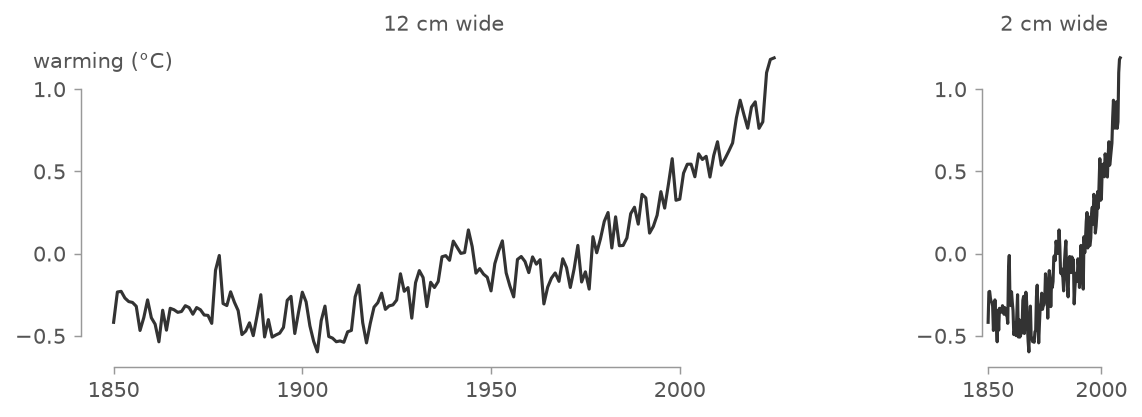
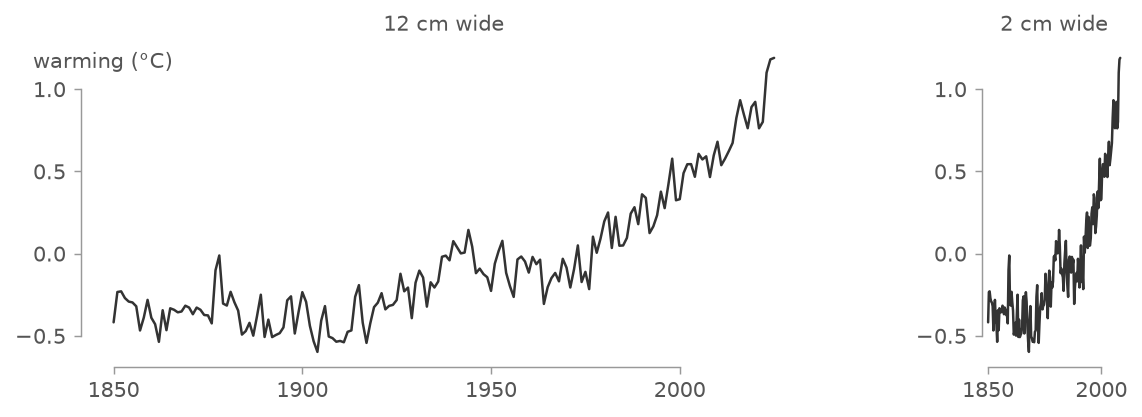
docs(gallery): draw under the vzs style so it owns the geometry
Apply the vanzelfsprekend style once in main() and retire the hand-set
linewidth=1.2 and fontsize=10 that restated it across the figures, so
the style is the single authority for line width and mark size. The
line-bearing figures pick up its 1.2 weight and round caps; seaborn
keeps its deliberate 2.0 and the scatter sizes stay, since matplotlib
has no rcParam for scatter s.

Claude-Session: https://claude.ai/code/session_011Cqf5d5iudAxMQDyUAgWy4

diff --git a/examples/gallery.py b/examples/gallery.py
@@ -70,7 +70,7 @@ def anscombe() -> None:
         ax.yaxis.set_major_locator(vzs.QuartileLocator(y))
         ax.xaxis.set_major_formatter("{x:.0f}")
         ax.yaxis.set_major_formatter("{x:.1f}")
-        ax.set_title(numeral, fontsize=10, color=vzs.palettes.TEXT_INK)
+        ax.set_title(numeral, color=vzs.palettes.TEXT_INK)
     save(fig, "anscombe")
 
 
@@ -92,7 +92,7 @@ def grand_tours() -> None:
         speeds = np.full(years.size, np.nan)
         speeds[table["year"].astype(int) - first] = table[column]
         speeds_of[ax] = speeds
-        ax.plot(dates, speeds, color=color, linewidth=1.2, label=label)
+        ax.plot(dates, speeds, color=color, label=label)
     # Plot before apply: the axis becomes a date axis when date data
     # arrives, and apply detects date-ness at call time.
     vzs.small_multiples(
@@ -145,8 +145,8 @@ def kepler() -> None:
     Period against semi-major axis for the eight planets; in AU and years
     the law is T = a**1.5, so the planets are collinear on log-log axes.
     Joining them draws the line, Earth alone is coloured, and `label` names
-    it in that colour. Drawn inside the `vanzelfsprekend` style, so the line
-    width and mark size come from there, not from this figure.
+    it in that colour. The gallery renders under the `vanzelfsprekend` style,
+    so the line width and mark size come from there, not from this figure.
     """
     # planets.csv carries a name column, so read it with per-column dtypes
     # rather than the all-numeric `load`; the comment strip is load's.
@@ -160,27 +160,26 @@ def kepler() -> None:
         table["orbital_period_year"],
         table["name"] == "Earth",
     )
-    with plt.style.context("vanzelfsprekend"):
-        fig, ax = plt.subplots(figsize=(5, 3.5))
-        ax.set_xscale("log")
-        ax.set_yscale("log")
-        # The planets in order of distance, joined into the law they obey.
-        ax.plot(axis, period, marker="o", color=vzs.palettes.DATA_INK)
-        # Earth alone in a Tol blue, a larger mark, named in its colour.
-        ax.plot(
-            axis[earth],
-            period[earth],
-            marker="o",
-            markersize=7,
-            linestyle="none",
-            color="tol:bright.blue",
-            label="Earth",
-        )
-        vzs.apply(ax, frame="loose")
-        vzs.xlabel(ax, "semi-major axis (AU)")
-        vzs.ylabel(ax, "orbital period (year)")
-        vzs.label(ax, "Earth")
-        save(fig, "kepler")
+    fig, ax = plt.subplots(figsize=(5, 3.5))
+    ax.set_xscale("log")
+    ax.set_yscale("log")
+    # The planets in order of distance, joined into the law they obey.
+    ax.plot(axis, period, marker="o", color=vzs.palettes.DATA_INK)
+    # Earth alone in a Tol blue, a larger mark, named in its colour.
+    ax.plot(
+        axis[earth],
+        period[earth],
+        marker="o",
+        markersize=7,
+        linestyle="none",
+        color="tol:bright.blue",
+        label="Earth",
+    )
+    vzs.apply(ax, frame="loose")
+    vzs.xlabel(ax, "semi-major axis (AU)")
+    vzs.ylabel(ax, "orbital period (year)")
+    vzs.label(ax, "Earth")
+    save(fig, "kepler")
 
 
 def waiting_times() -> None:
@@ -215,7 +214,7 @@ def frame_modes() -> None:
     for ax, mode in zip(axes, ("nice", "loose", "data"), strict=True):
         vzs.apply(ax, frame=mode)
         ax.plot(table["year"], table["anomaly_c"])
-        ax.set_title(f'frame="{mode}"', fontsize=10, color=vzs.palettes.TEXT_INK)
+        ax.set_title(f'frame="{mode}"', color=vzs.palettes.TEXT_INK)
     vzs.ylabel(axes[0], "warming (°C)", place="beside")
     save(fig, "frame_modes")
 
@@ -230,9 +229,7 @@ def tick_spacing() -> None:
         vzs.apply(ax)
         ax.plot(table["year"], table["anomaly_c"])
         width_cm = ax.get_position().width * fig.get_figwidth() * 2.54
-        ax.set_title(
-            f"{width_cm:.0f} cm wide", fontsize=10, color=vzs.palettes.TEXT_INK
-        )
+        ax.set_title(f"{width_cm:.0f} cm wide", color=vzs.palettes.TEXT_INK)
     vzs.ylabel(fig.axes[0], "warming (°C)")
     save(fig, "tick_spacing")
 
@@ -266,7 +263,7 @@ def power_profiles() -> None:
     ax.set_prop_cycle(vzs.palettes.cycle("muted"))
     for label, (cp, w_prime, p_max) in ARCHETYPES.items():
         power = cp + w_prime / (seconds + w_prime / (p_max - cp))
-        ax.plot(seconds, power, linewidth=1.2, label=label)
+        ax.plot(seconds, power, label=label)
     vzs.line_labels(ax)
     vzs.xlabel(ax, "duration (s)")
     vzs.ylabel(ax, "power (W)")
@@ -296,9 +293,7 @@ def resonance_peak() -> None:
     measured = lorentzian(sampled) + rng.normal(0, 12, sampled.size)
     fig, ax = plt.subplots(figsize=(5, 4))
     vzs.apply(ax, frame="loose", offset=(24, -6))
-    ax.plot(
-        frequency, calculated, color="tol:orange", linewidth=1.2, label="calculated"
-    )
+    ax.plot(frequency, calculated, color="tol:orange", label="calculated")
     ax.scatter(
         random_sampled,
         measured,
@@ -355,7 +350,7 @@ def small_multiples_grid() -> None:
     fig, axes = plt.subplots(2, 2, figsize=(7, 5))
     for ax, (column, title) in zip(axes.flat, panels, strict=True):
         ax.plot(dates, table[column], color=vzs.palettes.DATA_INK)
-        ax.set_title(title, fontsize=10, color=vzs.palettes.TEXT_INK)
+        ax.set_title(title, color=vzs.palettes.TEXT_INK)
     vzs.small_multiples(
         axes.flat, frame=("data", "nice"), spacing=(5, 4), ylabel="CO₂ (ppm)"
     )
@@ -387,6 +382,9 @@ def main() -> None:
     """Render every gallery figure into `examples/output`."""
     OUTPUT.mkdir(exist_ok=True)
     FIGURES.mkdir(exist_ok=True)
+    # The gallery draws under vanzelfsprekend's style, the one authority for
+    # line width and mark size; figures set only what deviates from it.
+    plt.style.use("vanzelfsprekend")
     anscombe()
     grand_tours()
     seaborn_lineplot()
